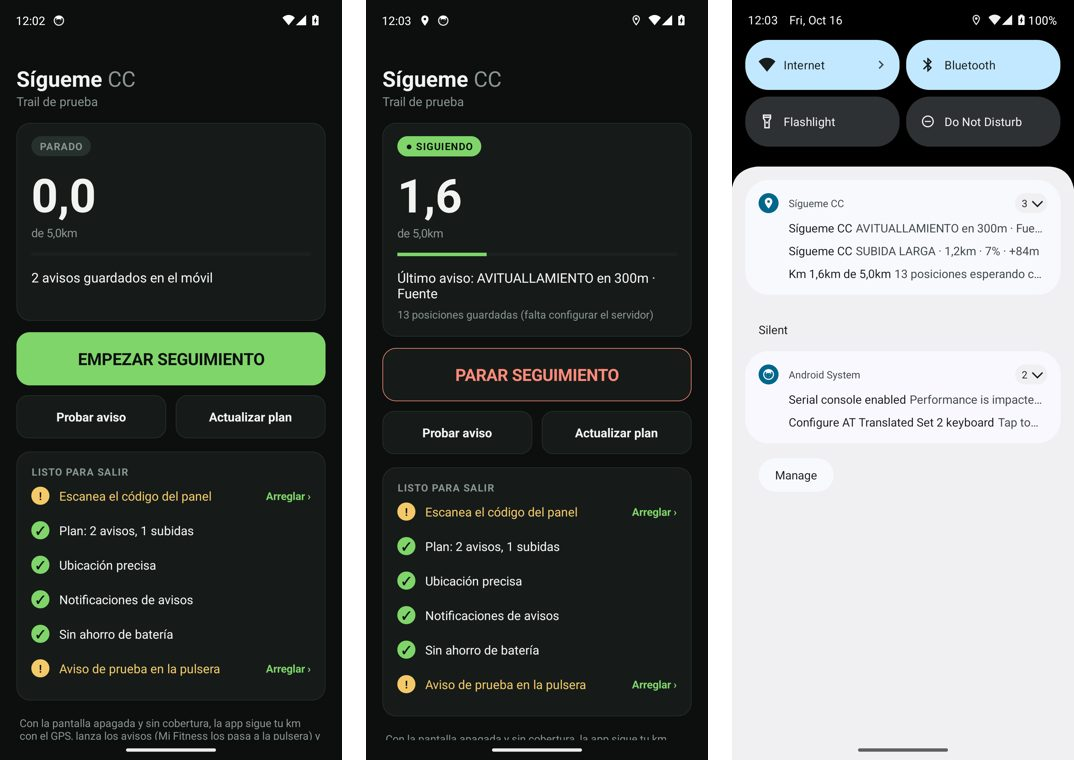
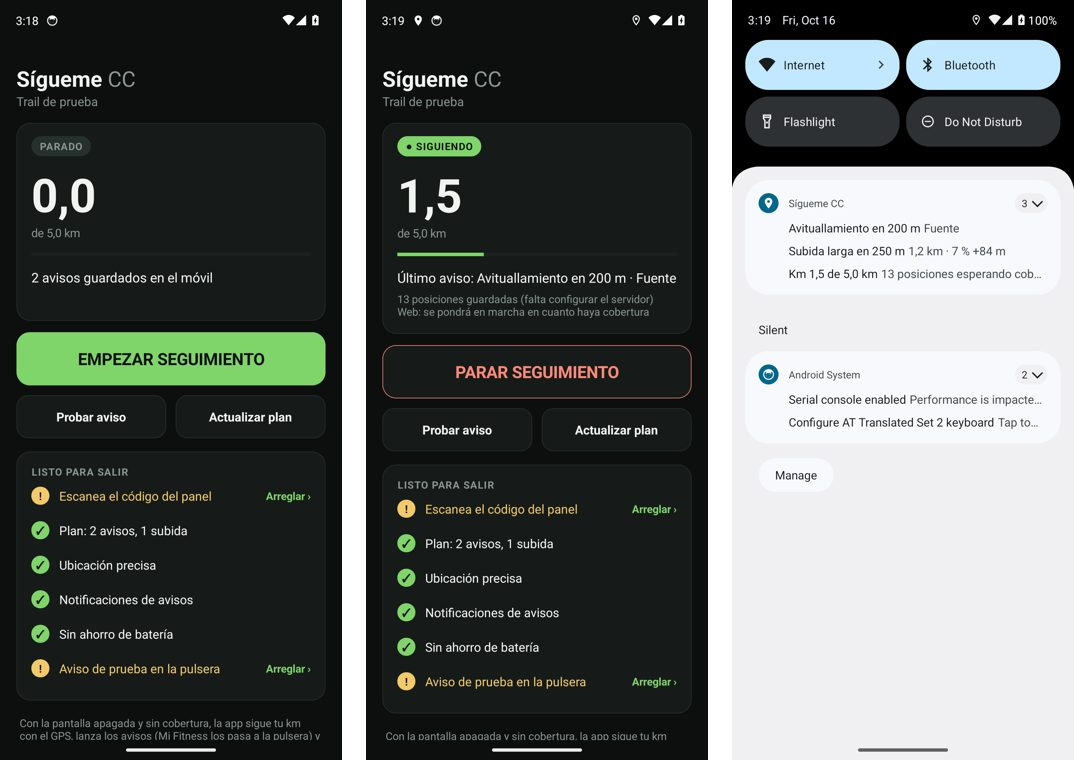
v1.12.2 · Avisos legibles en la pulsera
- Título con lo importante y cuerpo con los números, para Mi Fitness y Zepp.
- Capturas nuevas de la app.

diff --git a/android/app/src/main/java/cc/sigueme/app/Plan.kt b/android/app/src/main/java/cc/sigueme/app/Plan.kt
@@ -10,7 +10,7 @@ import kotlin.math.sqrt
 /** Plan de la carrera bajado del servidor (/api/plan). Sin Android: se prueba en la JVM.
  *  La misma lógica que tenía el servidor con ntfy, ahora en el móvil y sin cobertura. */
 class Plan(json: String) {
-    data class Aviso(val id: Int, val km: Double, val texto: String, val validoHasta: Double, val objetivoKm: Double?)
+    data class Aviso(val id: Int, val km: Double, val texto: String, val validoHasta: Double, val objetivoKm: Double?, val tipo: String = "")
     data class Subida(val inicio: Double, val fin: Double, val desnivel: Int, val largo: Double)
 
     val nombre: String
@@ -47,7 +47,7 @@ class Plan(json: String) {
         avisos = (0 until (a?.length() ?: 0)).map {
             val o = a!!.getJSONObject(it)
             Aviso(o.getInt("id"), o.getDouble("km"), o.getString("texto"), o.optDouble("valido_hasta", o.getDouble("km") + 0.3),
-                if (o.has("objetivo_km")) o.getDouble("objetivo_km") else null)
+                if (o.has("objetivo_km")) o.getDouble("objetivo_km") else null, o.optString("tipo", ""))
         }.sortedBy { it.km }
         val s = j.optJSONArray("subidas")
         subidas = (0 until (s?.length() ?: 0)).map {
@@ -91,7 +91,13 @@ class Plan(json: String) {
         val a = avisos.lastOrNull { it.km <= k && it.id > enviado } ?: return null
         if (k > a.validoHasta) return a.id to textoEstado(k)
         val falta = (a.objetivoKm ?: k) - k
-        return a.id to a.texto.replace("{dist}", if (falta > 0.05) "en " + kmTxt(falta) else "AQUÍ")
+        var texto = a.texto.replace("{dist}", if (falta > 0.05) "en " + kmTxt(falta) else "AQUÍ")
+        // «subida en 300 m»: lo que falta hasta donde empieza, calculado al avisar
+        if (a.tipo == "subida") subidas.firstOrNull { it.inicio >= a.km - 0.05 }?.let {
+            val hasta = it.inicio - k
+            if (hasta > 0.05) texto = texto.replaceFirst(" · ", " en ${kmTxt(hasta)} · ").let { t -> if (t == texto) "$texto en ${kmTxt(hasta)}" else t }
+        }
+        return a.id to texto
     }
 
     fun textoEstado(k: Double): String {
@@ -104,6 +110,32 @@ class Plan(json: String) {
     }
 
     companion object {
+        /** Texto del plan → (título, cuerpo) para la pulsera: lo importante en el
+         *  título («Subida larga en 300 m»), los números con espacio en el cuerpo
+         *  y «rampa»/«quedan» en la última línea. Antes el título era siempre
+         *  «Sígueme CC» y todo iba en una línea que la pulsera cortaba. */
+        fun notificacion(texto: String): Pair<String, String> {
+            val trozos = texto.split(" · ").map { espacios(it.trim()) }.filter { it.isNotEmpty() }
+            if (trozos.isEmpty()) return "Sígueme CC" to ""
+            val titulo = frase(trozos[0])
+            val (finales, resto) = trozos.drop(1).partition { it.startsWith("rampa", true) || it.startsWith("quedan +", true) }
+            val lineas = resto.chunked(2).map { it.joinToString(" · ") { t -> frase(t) } } + finales.map { frase(it) }
+            return titulo to lineas.joinToString("\n")
+        }
+
+        private fun espacios(t: String) = t.replace(Regex("""(\d)(km|m)\b"""), "$1 $2").replace(Regex("""(\d)%"""), "$1 %")
+            .replace(Regex("""(^|\s)-(\d)"""), "$1−$2")
+
+        /** «SUBIDA LARGA» → «Subida larga». Solo si empieza por una palabra en
+         *  mayúsculas (las del plan): «Prueba de Sígueme CC» o el nombre de un
+         *  avituallamiento se quedan como están. */
+        private fun frase(t: String): String {
+            val mayus = { p: String -> p.any { it.isLetter() } && p == p.uppercase() }
+            val palabras = t.split(" ")
+            if (!mayus(palabras[0])) return t.replaceFirstChar { it.uppercase() }
+            return palabras.joinToString(" ") { if (mayus(it)) it.lowercase() else it }.replaceFirstChar { it.uppercase() }
+        }
+
         fun kmTxt(k: Double): String =
             if (k < 1) "${(k * 1000 / 50).roundToInt() * 50}m" else String.format(java.util.Locale.ROOT, "%.1f", k).replace('.', ',') + "km"
 

diff --git a/android/app/src/main/java/cc/sigueme/app/Seguimiento.kt b/android/app/src/main/java/cc/sigueme/app/Seguimiento.kt
@@ -99,7 +99,7 @@ class Seguimiento : Service(), LocationListener {
         } else plan?.let { pl ->
             val ultimo = p.getFloat("km", 0f).toDouble()
             val k = pl.kmEnRuta(l.latitude, l.longitude, ultimo)
-            texto = if (k == null) "Fuera de la ruta (más de 150 m)" else "Km ${Plan.kmTxt(k)} de ${Plan.kmTxt(pl.distancia)}"
+            texto = if (k == null) "Fuera de la ruta (más de 150 m)" else String.format(Locale("es", "ES"), "Km %.1f de %.1f km", k, pl.distancia)
             if (k != null) {
                 p.edit().putFloat("km", k.toFloat()).putLong("km_t", System.currentTimeMillis()).apply()
                 val toca = pl.avisoQueToca(k, p.getInt("aviso", 0))
@@ -159,10 +159,13 @@ class Seguimiento : Service(), LocationListener {
             })
         }
 
-        /** Notificación normal y nueva cada vez: es lo que Mi Fitness pasa a la pulsera. */
+        /** Notificación normal y nueva cada vez: es lo que Mi Fitness pasa a la pulsera.
+         *  Título = lo importante; cuerpo = los números (Plan.notificacion). */
         fun avisar(c: Context, texto: String) {
-            val n = Notification.Builder(c, CANAL_AVISOS).setSmallIcon(R.drawable.ic_noti).setContentTitle("Sígueme CC")
-                .setContentText(texto).setStyle(Notification.BigTextStyle().bigText(texto))
+            val (titulo, cuerpo) = Plan.notificacion(texto)
+            val n = Notification.Builder(c, CANAL_AVISOS).setSmallIcon(R.drawable.ic_noti).setContentTitle(titulo)
+                .setContentText(cuerpo.replace('\n', ' ')).setStyle(Notification.BigTextStyle().bigText(cuerpo))
+                .setSubText("Sígueme CC")
                 .setCategory(Notification.CATEGORY_MESSAGE).setAutoCancel(true).setTimeoutAfter(10 * 60 * 1000L).build()
             (c.getSystemService(NOTIFICATION_SERVICE) as NotificationManager).notify(nAviso++, n)
         }

diff --git a/android/app/src/main/java/cc/sigueme/app/MainActivity.kt b/android/app/src/main/java/cc/sigueme/app/MainActivity.kt
@@ -178,15 +178,15 @@ class MainActivity : Activity() {
         deTxt.text = when {
             plan == null -> "km"
             // el estado solo si dice algo que no sea el km (fuera de la ruta, sin GPS)
-            activo -> "de ${Plan.kmTxt(plan.distancia)}" + (prefs.getString("estado_km", null)
+            activo -> String.format(Locale("es", "ES"), "de %.1f km", plan.distancia) + (prefs.getString("estado_km", null)
                 ?.takeUnless { it.startsWith("Km ") }?.let { " · $it" } ?: if (prefs.contains("estado_km")) "" else " · buscando GPS…")
-            else -> "de ${Plan.kmTxt(plan.distancia)}"
+            else -> String.format(Locale("es", "ES"), "de %.1f km", plan.distancia)
         }
         barra.progress = if (plan != null && plan.distancia > 0) (km / plan.distancia * 1000).toInt() else 0
 
         val ultimo = prefs.getString("ultimo_aviso", null)
         avisoTxt.text = when {
-            activo && ultimo != null -> "Último aviso: $ultimo"
+            activo && ultimo != null -> Plan.notificacion(ultimo).let { (t, c) -> "Último aviso: $t" + (if (c.isEmpty()) "" else " · " + c.replace('\n', ' ')) }
             activo -> "Esperando el primer aviso…"
             plan != null -> "${plan.avisos.size} avisos guardados en el móvil"
             else -> "Sin avisos"
@@ -281,7 +281,7 @@ class MainActivity : Activity() {
     }
 
     private fun probarAviso() {
-        Seguimiento.avisar(this, "Prueba de Sígueme CC · si lo ves en la pulsera, los avisos funcionan")
+        Seguimiento.avisar(this, "Prueba de Sígueme CC · si lo ves en la pulsera · los avisos funcionan")
         prefs.edit().putLong("prueba_t", System.currentTimeMillis()).apply()
         pintar()
         dialogo("Aviso enviado: tiene que vibrar el móvil y salir en la pulsera.\n\nSi no sale en la pulsera: en Mi Fitness → " +

diff --git a/android/app/src/test/java/cc/sigueme/app/PlanTest.kt b/android/app/src/test/java/cc/sigueme/app/PlanTest.kt
@@ -61,6 +61,22 @@ class PlanTest {
         assertEquals(false, p.antesDeSalir(diez - 3 * 86400_000L))    // tres días antes: una prueba, sin esperar
     }
 
+    @Test fun formatoParaLaPulsera() {
+        assertEquals("Subida larga" to "1,2 km · 7 %\n+84 m\nRampa 19 %", Plan.notificacion("SUBIDA LARGA · 1,2km · 7% · +84m · rampa 19%"))
+        assertEquals("Cima" to "Bajada 2,9 km · −215 m\nQuedan +185 m", Plan.notificacion("CIMA · bajada 2,9km · -215m · quedan +185m"))
+        assertEquals("Avituallamiento en 300 m" to "Fuente del Pinar", Plan.notificacion("AVITUALLAMIENTO en 300m · Fuente del Pinar"))
+        assertEquals("Último km" to "¡a por ello!", Plan.notificacion("ÚLTIMO KM · ¡a por ello!"))
+        assertEquals("Prueba de Sígueme CC" to "Si lo ves en la pulsera · Los avisos funcionan",
+            Plan.notificacion("Prueba de Sígueme CC · si lo ves en la pulsera · los avisos funcionan"))
+    }
+
+    @Test fun subidaConDistancia() {
+        val p = Plan("""{"carrera": {"distancia_km": 10}, "ruta": [${(0..100).joinToString(",") { "[-4.0, ${40.0 + it * 0.1 * gradoKm}]" }}],
+          "avisos": [{"id": 1, "km": 2.0, "tipo": "subida", "texto": "SUBIDA LARGA · 1,2km · 7%", "valido_hasta": 2.6}],
+          "subidas": [{"inicio": 2.3, "fin": 3.5, "desnivel_m": 84, "largo_km": 1.2}]}""")
+        assertEquals(1 to "SUBIDA LARGA en 300m · 1,2km · 7%", p.avisoQueToca(2.0, 0))
+    }
+
     @Test fun textos() {
         assertEquals("250m", Plan.kmTxt(0.26))
         assertEquals("2,3km", Plan.kmTxt(2.34))

diff --git a/android/prueba/plan.py b/android/prueba/plan.py
@@ -4,8 +4,8 @@ g = 1 / 111.195
 ruta = [[-4.0, round(40.8 + i * 0.05 * g, 6)] for i in range(101)]
 plan = {"carrera": {"nombre": "Trail de prueba", "distancia_km": 5.0}, "ruta": ruta,
         "perfil": [[i * 0.05, 900 + i] for i in range(101)],
-        "avisos": [{"id": 1, "km": 0.3, "texto": "SUBIDA LARGA · 1,2km · 7% · +84m", "valido_hasta": 0.9},
-                   {"id": 2, "km": 1.2, "texto": "AVITUALLAMIENTO {dist} · Fuente", "valido_hasta": 1.7, "objetivo_km": 1.5}],
+        "avisos": [{"id": 1, "km": 0.3, "tipo": "subida", "texto": "SUBIDA LARGA · 1,2km · 7% · +84m", "valido_hasta": 0.9},
+                   {"id": 2, "km": 1.2, "tipo": "avituallamiento", "texto": "AVITUALLAMIENTO {dist} · Fuente", "valido_hasta": 1.7, "objetivo_km": 1.5}],
         "subidas": [{"inicio": 0.6, "fin": 1.8, "desnivel_m": 84, "largo_km": 1.2}],
         "avituallamientos": [{"name": "Fuente", "km": 1.5}], "restante": [[0, 84], [1.8, 0]]}
 print(json.dumps(plan))

diff --git a/CHANGELOG.md b/CHANGELOG.md
@@ -4,6 +4,17 @@ Versiones con [SemVer](https://semver.org/lang/es/): la última cifra para
 arreglos, la del medio para funciones nuevas. Cada una tiene su etiqueta y su
 release en GitHub.
 
+## v1.12.2 · 2026-10-16
+- **Avisos legibles en la pulsera** (Xiaomi Band con Mi Fitness, relojes
+  Amazfit con Zepp): el título dice lo importante («Subida larga en 300 m»,
+  «Avituallamiento en 200 m», «Cima», «Km 12») en vez de repetir «Sígueme CC»;
+  el cuerpo lleva los números con espacio («1,2 km · 7 % · +84 m») y lo de
+  «rampa» o «quedan +X m» en su propia línea. La distancia a la subida se
+  calcula al avisar, como la del avituallamiento.
+- La app enseña el último aviso con el mismo formato, y el km como «1,5 de 5,0 km».
+- Historial del repositorio limpio de datos de la carrera real (ruta,
+  avituallamientos y capturas viejas), sin cambiar el código.
+
 ## v1.12.1 · 2026-10-16
 - **Ejemplo sin datos reales:** la ruta, el perfil y los avituallamientos de
   ejemplo son ahora un bucle inventado de 21 km; el código ya no nombra ningún

diff --git a/README.md b/README.md
@@ -11,7 +11,7 @@
 </p>
 
 <p align="center">
-  <img alt="versión" src="https://img.shields.io/badge/versión-v1.12.1-1f8a4c">
+  <img alt="versión" src="https://img.shields.io/badge/versión-v1.12.2-1f8a4c">
   <img alt="Python" src="https://img.shields.io/badge/servidor-Python%203%20·%20stdlib-3776ab">
   <img alt="MapLibre" src="https://img.shields.io/badge/mapa-MapLibre%204.7-396cb2">
   <img alt="Zepp OS" src="https://img.shields.io/badge/reloj-Zepp%20OS%203-ff6a00">
